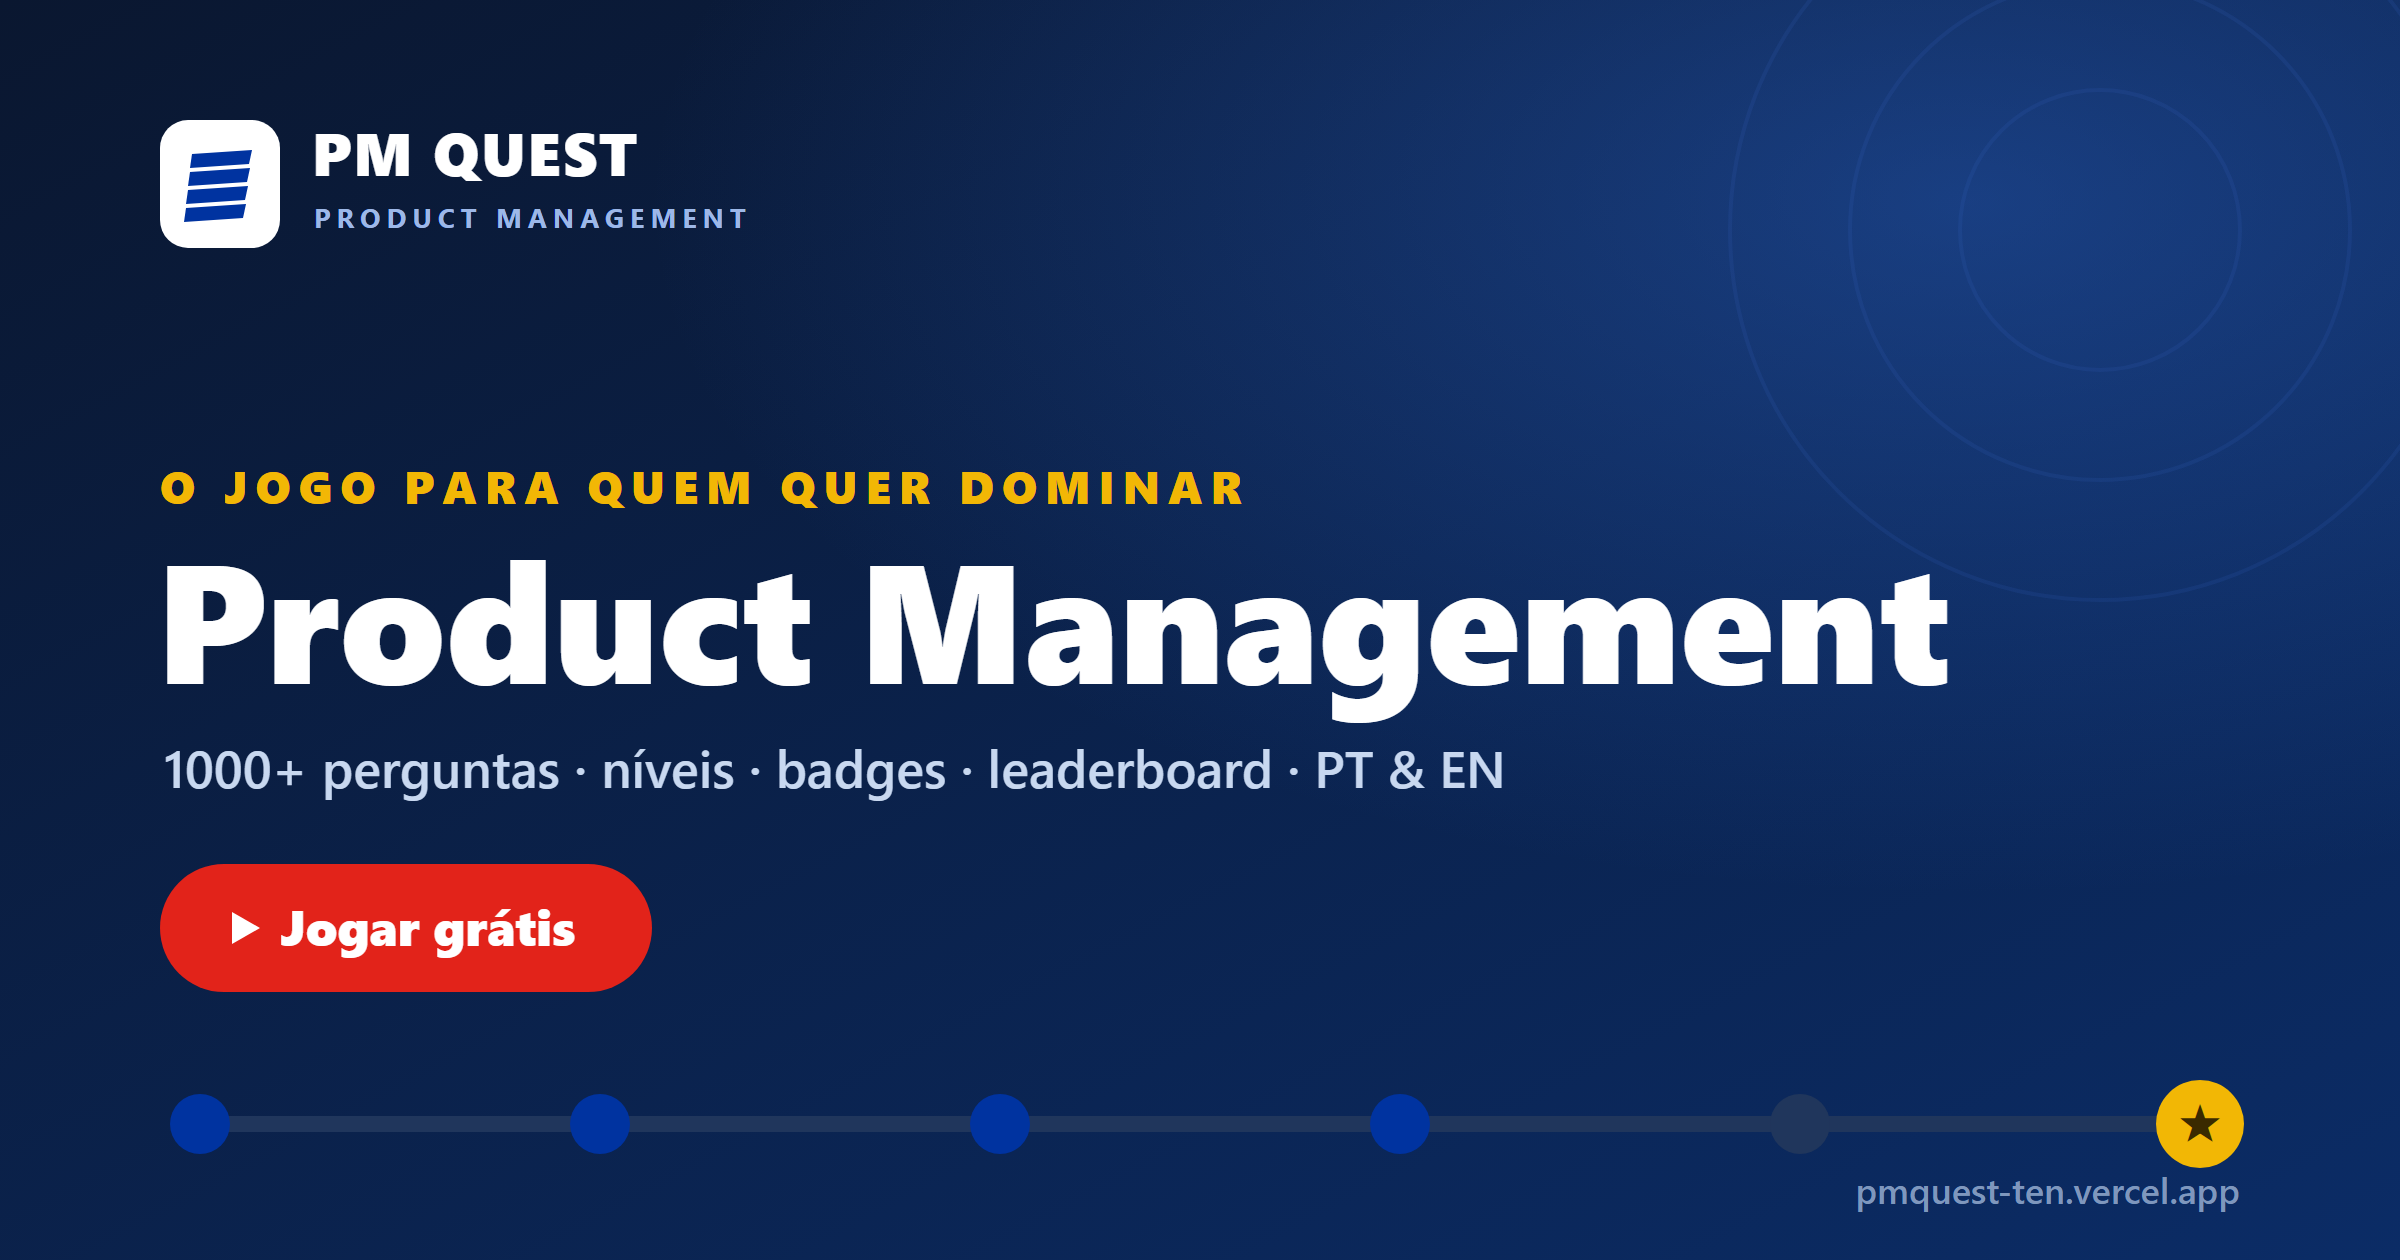
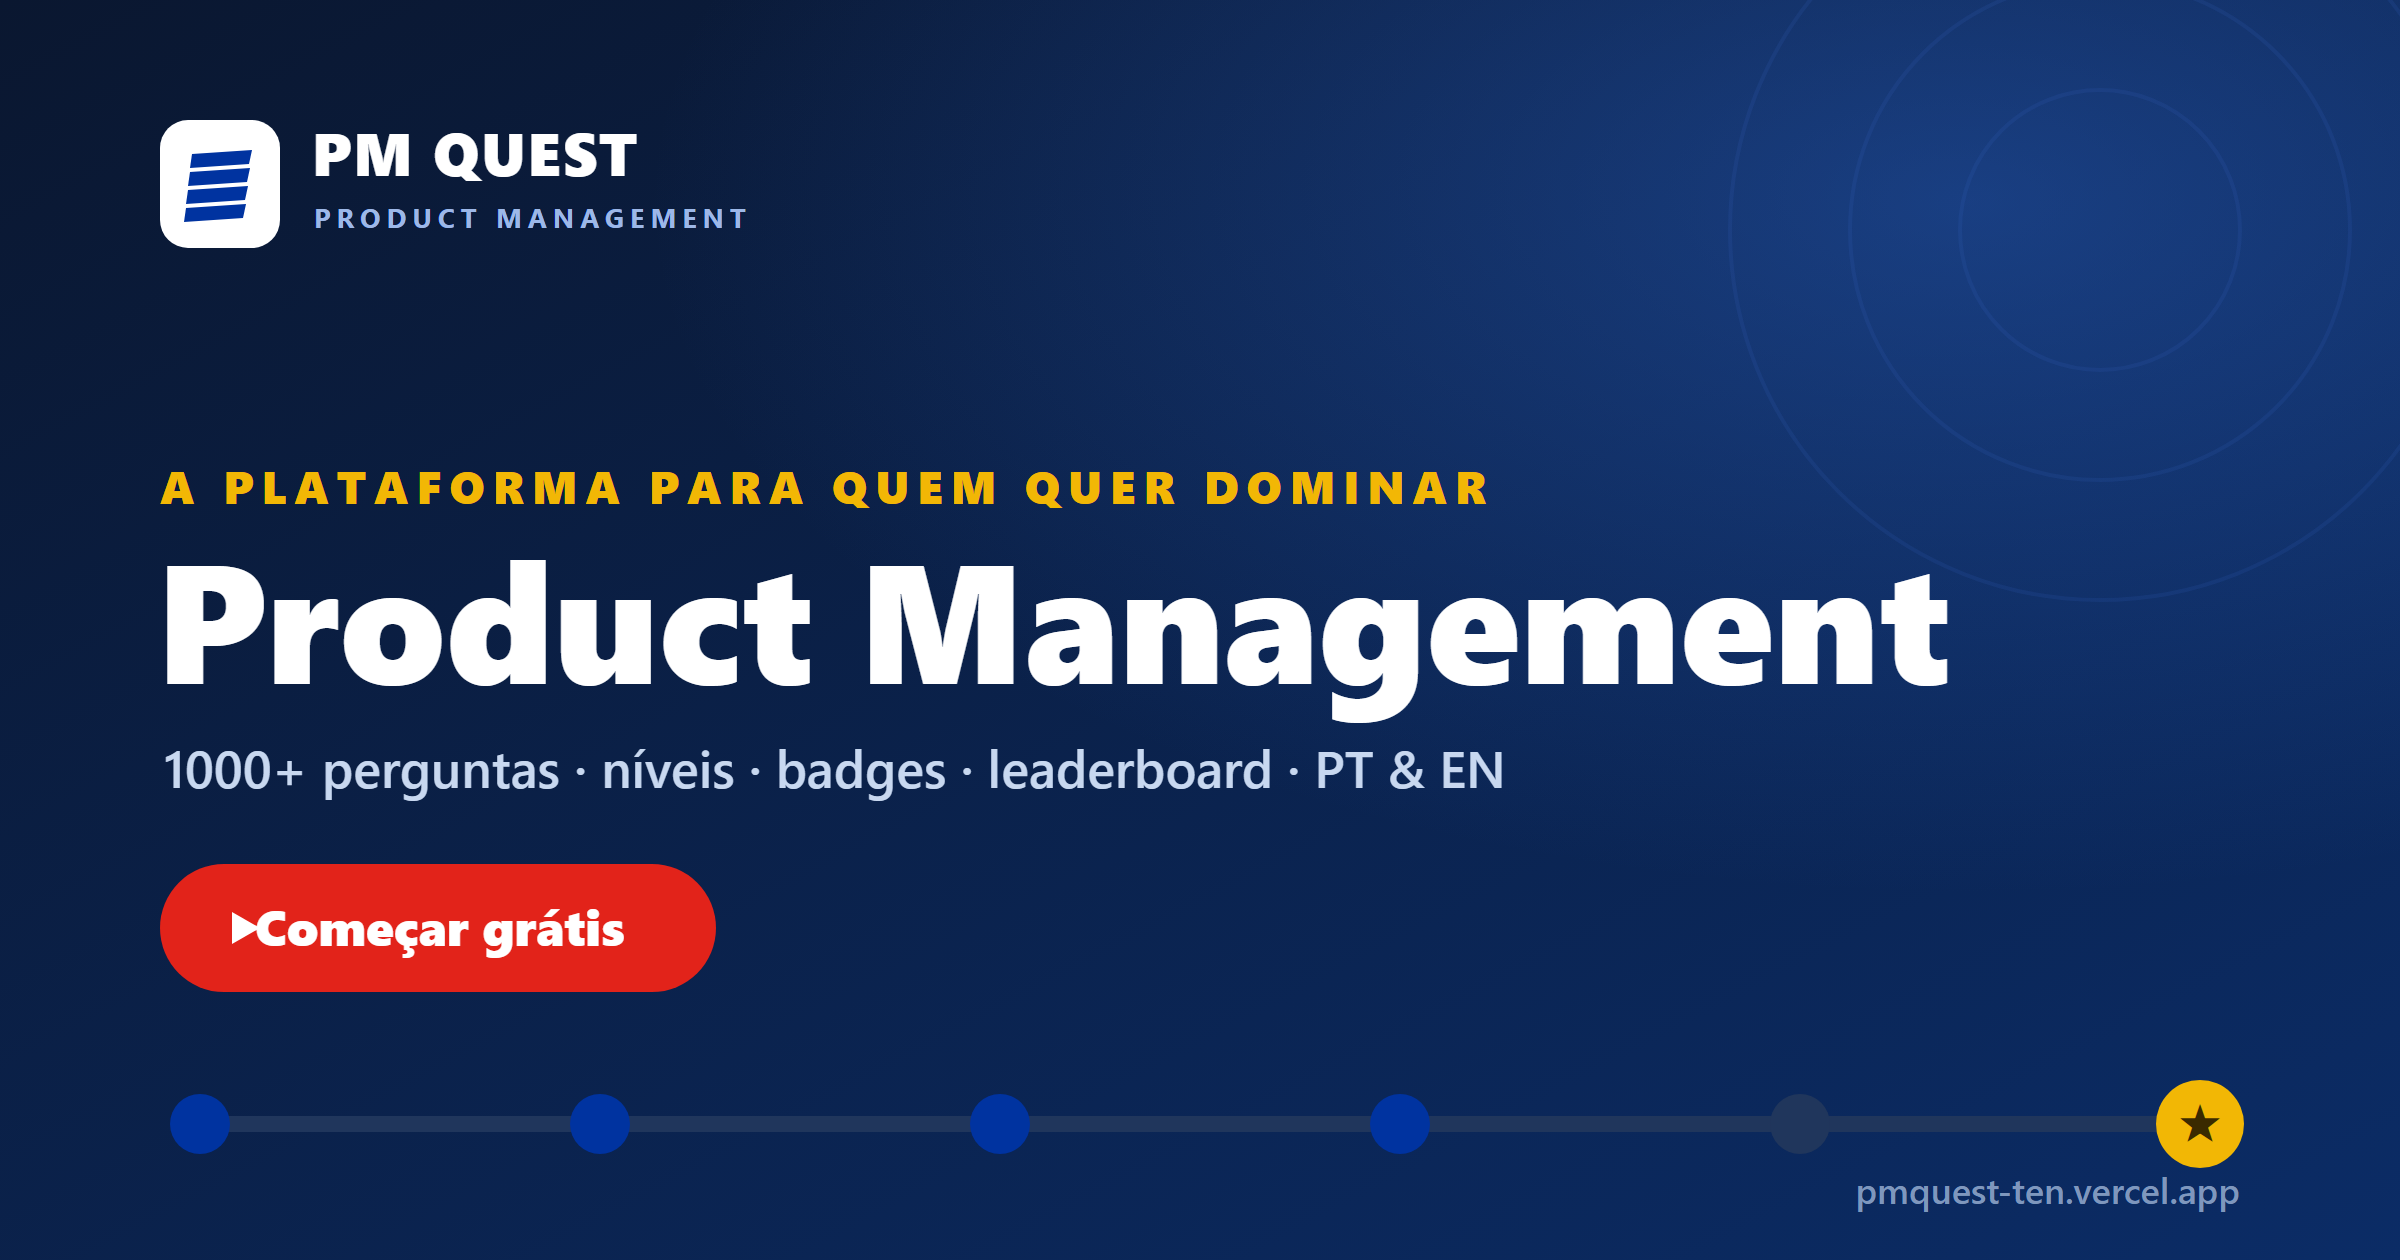
Reposition as a learning platform (drop game framing) + stronger level-based adaptive difficulty

Changed region(s): [[0.0625, 0.3714, 0.625, 0.4024], [0.0938, 0.681, 0.3125, 0.8048]]

diff --git a/game.js b/game.js
@@ -1,5 +1,5 @@
 /* ===================================================================
-   PM QUEST — Product Management quiz game (v2)
+   PM QUEST — Product Management learning platform (v2)
    Requires global QUESTION_BANK (array) from questions.js
    =================================================================== */
 (function () {
@@ -246,15 +246,24 @@
       unseen = pool.slice();
     }
     shuffle(unseen);
-    // bias to level difficulty for plain normal rounds
+    // Adaptive difficulty: the higher your level, the harder the questions get.
     if (config.type === "normal" && (!config.difficulty || config.difficulty === "all")) {
-      const li = levelIndex(state.xp), wMid = li >= 2, wSen = li >= 4;
-      unseen.sort((a, b) => w(b, wMid, wSen) - w(a, wMid, wSen));
+      const maxLi = Math.max(1, LEVELS.length - 1);
+      const r = Math.min(1, levelIndex(state.xp) / maxLi); // 0 = iniciante … 1 = topo
+      unseen.sort((a, b) => diffWeight(b, r) - diffWeight(a, r));
       const top = unseen.slice(0, ROUND_SIZE * 3); shuffle(top); return top.slice(0, ROUND_SIZE);
     }
     return unseen.slice(0, ROUND_SIZE);
   }
-  function w(q, wMid, wSen) { let x = Math.random() * 0.6; if (q.difficulty === "junior") x += 1; if (q.difficulty === "mid") x += wMid ? 1.4 : 0.6; if (q.difficulty === "senior") x += wSen ? 1.6 : 0.3; return x; }
+  // Weight a question by how well its difficulty matches the learner's progress r
+  // (0..1): easy dominates early, hard dominates near the top, medium peaks mid.
+  function diffWeight(q, r) {
+    let base;
+    if (q.difficulty === "junior") base = 1 - r;          // fades as you climb
+    else if (q.difficulty === "senior") base = r;         // grows as you climb
+    else base = 1 - Math.abs(r - 0.5) * 1.6;              // medium peaks mid-way
+    return Math.max(0.05, base) + Math.random() * 0.35;   // keep some variety
+  }
 
   function startRound(config) {
     lastConfig = config || lastConfig || { type: "normal" };
@@ -511,7 +520,7 @@
 
     // sparkline
     const h = state.xpHistory.map(x => x.acc); const sp = $("sparkSvg");
-    if (h.length < 2) sp.innerHTML = '<text x="6" y="40" fill="#8ba0c2" font-size="12">Joga mais rondas para ver a tendência.</text>';
+    if (h.length < 2) sp.innerHTML = '<text x="6" y="40" fill="#8ba0c2" font-size="12">Faz mais rondas para ver a tendência.</text>';
     else {
       const W = 600, H = 70, max = 100, step = W / (h.length - 1);
       const pts = h.map((v, i) => [i * step, H - (v / max) * (H - 8) - 4]);

diff --git a/index.html b/index.html
@@ -3,12 +3,12 @@
 <head>
 <meta charset="UTF-8">
 <meta name="viewport" content="width=device-width, initial-scale=1.0">
-<title>PM Quest — Jogo de Product Management</title>
+<title>PM Quest — Plataforma de aprendizagem de Product Management</title>
 <link rel="icon" href="favicon.svg" type="image/svg+xml">
 <!-- Open Graph: controls how the link looks when shared on LinkedIn -->
 <meta property="og:type" content="website">
-<meta property="og:title" content="PM Quest — Jogo de Product Management">
-<meta property="og:description" content="Treina Product Management com mais de 1000 perguntas, sobe de nível, ganha badges e entra no leaderboard.">
+<meta property="og:title" content="PM Quest — Plataforma de aprendizagem de Product Management">
+<meta property="og:description" content="Aprende Product Management com mais de 1000 perguntas, com explicações, níveis, badges e leaderboard. Em PT e EN.">
 <meta property="og:image" content="https://pmquest-ten.vercel.app/docs/cover-post.png">
 <meta property="og:url" content="https://pmquest-ten.vercel.app/">
 <meta name="twitter:card" content="summary_large_image">
@@ -167,7 +167,7 @@
         <button class="icon-btn" id="leadBack" aria-label="Voltar">←</button>
         <h2 data-i18n="lead_title">🏆 Leaderboard</h2>
       </div>
-      <div class="sub" style="font-size:13px;color:var(--muted);margin-bottom:14px;" data-i18n="lead_sub">Melhores jogadores por XP.</div>
+      <div class="sub" style="font-size:13px;color:var(--muted);margin-bottom:14px;" data-i18n="lead_sub">Melhores alunos por XP.</div>
       <div id="leadList"><div class="foot">A carregar…</div></div>
     </div>
   </div>
@@ -203,7 +203,7 @@
 <div class="overlay hidden" id="overlaySettings">
   <div class="modal" role="dialog" aria-label="Definições">
     <h3 data-i18n="set_title">⚙️ Definições</h3>
-    <div class="sub" data-i18n="set_sub">Personaliza a tua experiência de jogo.</div>
+    <div class="sub" data-i18n="set_sub">Personaliza a tua experiência de aprendizagem.</div>
 
     <div class="setrow">
       <div class="lb"><span data-i18n="set_study">Modo de estudo</span><small data-i18n="set_study_s">Mostra a resposta e explicação logo após cada questão (em vez de só no fim)</small></div>

diff --git a/i18n.js b/i18n.js
@@ -41,7 +41,7 @@
       stats_ach: "Conquistas",
       // leaderboard
       lead_title: "🏆 Leaderboard",
-      lead_sub: "Melhores jogadores por XP.",
+      lead_sub: "Melhores alunos por XP.",
       // filter modal
       f_title: "🎛️ Filtrar exercício",
       f_sub: "Prepara-te para uma vaga específica escolhendo o tema e a dificuldade.",
@@ -56,7 +56,7 @@
       f_start: "Começar →",
       // settings modal
       set_title: "⚙️ Definições",
-      set_sub: "Personaliza a tua experiência de jogo.",
+      set_sub: "Personaliza a tua experiência de aprendizagem.",
       set_study: "Modo de estudo",
       set_study_s: "Mostra a resposta e explicação logo após cada questão (em vez de só no fim)",
       set_timer: "Temporizador",
@@ -102,7 +102,7 @@
       stats_weak: "Topics to improve",
       stats_ach: "Achievements",
       lead_title: "🏆 Leaderboard",
-      lead_sub: "Top players by XP.",
+      lead_sub: "Top learners by XP.",
       f_title: "🎛️ Filter exercise",
       f_sub: "Prepare for a specific role by choosing the topic and difficulty.",
       f_topic: "Topic",
@@ -115,7 +115,7 @@
       f_cancel: "Cancel",
       f_start: "Start →",
       set_title: "⚙️ Settings",
-      set_sub: "Customise your game experience.",
+      set_sub: "Customise your learning experience.",
       set_study: "Study mode",
       set_study_s: "Shows the answer and explanation right after each question (instead of only at the end)",
       set_timer: "Timer",

diff --git a/login.html b/login.html
@@ -44,7 +44,7 @@
     <div id="alreadyIn" class="hidden">
       <h2>Bem-vindo de volta 👋</h2>
       <div class="login-signedin">Sessão iniciada como <b id="whoName"></b>.</div>
-      <button class="btn btn-primary" id="goGame">▶ Entrar no jogo</button>
+      <button class="btn btn-primary" id="goGame">▶ Começar a aprender</button>
       <div style="height:10px"></div>
       <button class="btn btn-ghost" id="signOut">Terminar sessão</button>
     </div>
@@ -85,7 +85,7 @@
       <div id="guestMsg" class="acct-msg" style="margin-bottom:10px;"></div>
       <button class="btn btn-ghost" id="guestBtn">Continuar com o nome →</button>
 
-      <a class="login-guest" href="#" id="pureGuest">Jogar sem conta (só neste dispositivo, sem leaderboard) →</a>
+      <a class="login-guest" href="#" id="pureGuest">Continuar sem conta (só neste dispositivo, sem leaderboard) →</a>
     </div>
   </div>
 
@@ -120,12 +120,12 @@
 
   if (!ready) {
     $("cfgFoot").textContent =
-      "⚠ Autenticação indisponível (biblioteca ou configuração em falta). Podes jogar sem conta.";
+      "⚠ Autenticação indisponível (biblioteca ou configuração em falta). Podes continuar sem conta.";
     $("authForm").querySelector(".seg-tabs").style.display = "none";
     ["nameField", "email", "pass", "submitBtn", "guestName", "guestBtn"].forEach(function (id) {
       var el = $(id); if (el) el.style.display = "none";
     });
-    $("formTitle").textContent = "Jogar sem conta";
+    $("formTitle").textContent = "Continuar sem conta";
     return;
   }
 

diff --git a/README.md b/README.md
@@ -1,7 +1,7 @@
 # PM Quest 🚀
 
-> Um jogo de treino gamificado para **Product Management** — de Estagiário a Líder de Produto.
-> A gamified training game for **Product Management** — from Intern to Product Leader.
+> Uma plataforma de aprendizagem baseada em perguntas para **Product Management** — de Estagiário a Líder de Produto.
+> A question-based learning platform for **Product Management** — from Intern to Product Leader.
 
 PM Quest é uma aplicação **web 100% client-side** (HTML + CSS + JavaScript puro, sem
 _frameworks_, sem _build_, sem servidor) que transforma o estudo de _Product Management_
@@ -16,7 +16,7 @@ num quiz por rondas com XP, níveis, sequências diárias e conquistas. A interf
   três níveis de dificuldade (`junior` · `mid` · `senior`).
 - **Rondas de 10 perguntas** sem repetições — o progresso é lembrado entre sessões.
 - **Sistema de XP e 6 níveis**: Estagiário → Júnior → Associado → Intermédio → Sénior → Líder.
-- **Modos de jogo**:
+- **Modos de treino**:
   - **Iniciar Exercício** — ronda normal, com dificuldade ajustada ao teu nível.
   - **Áreas Fracas** — foca os temas onde tens pior precisão.
   - **Filtrar** — escolhe tema e/ou dificuldade (ótimo para preparar uma vaga específica).